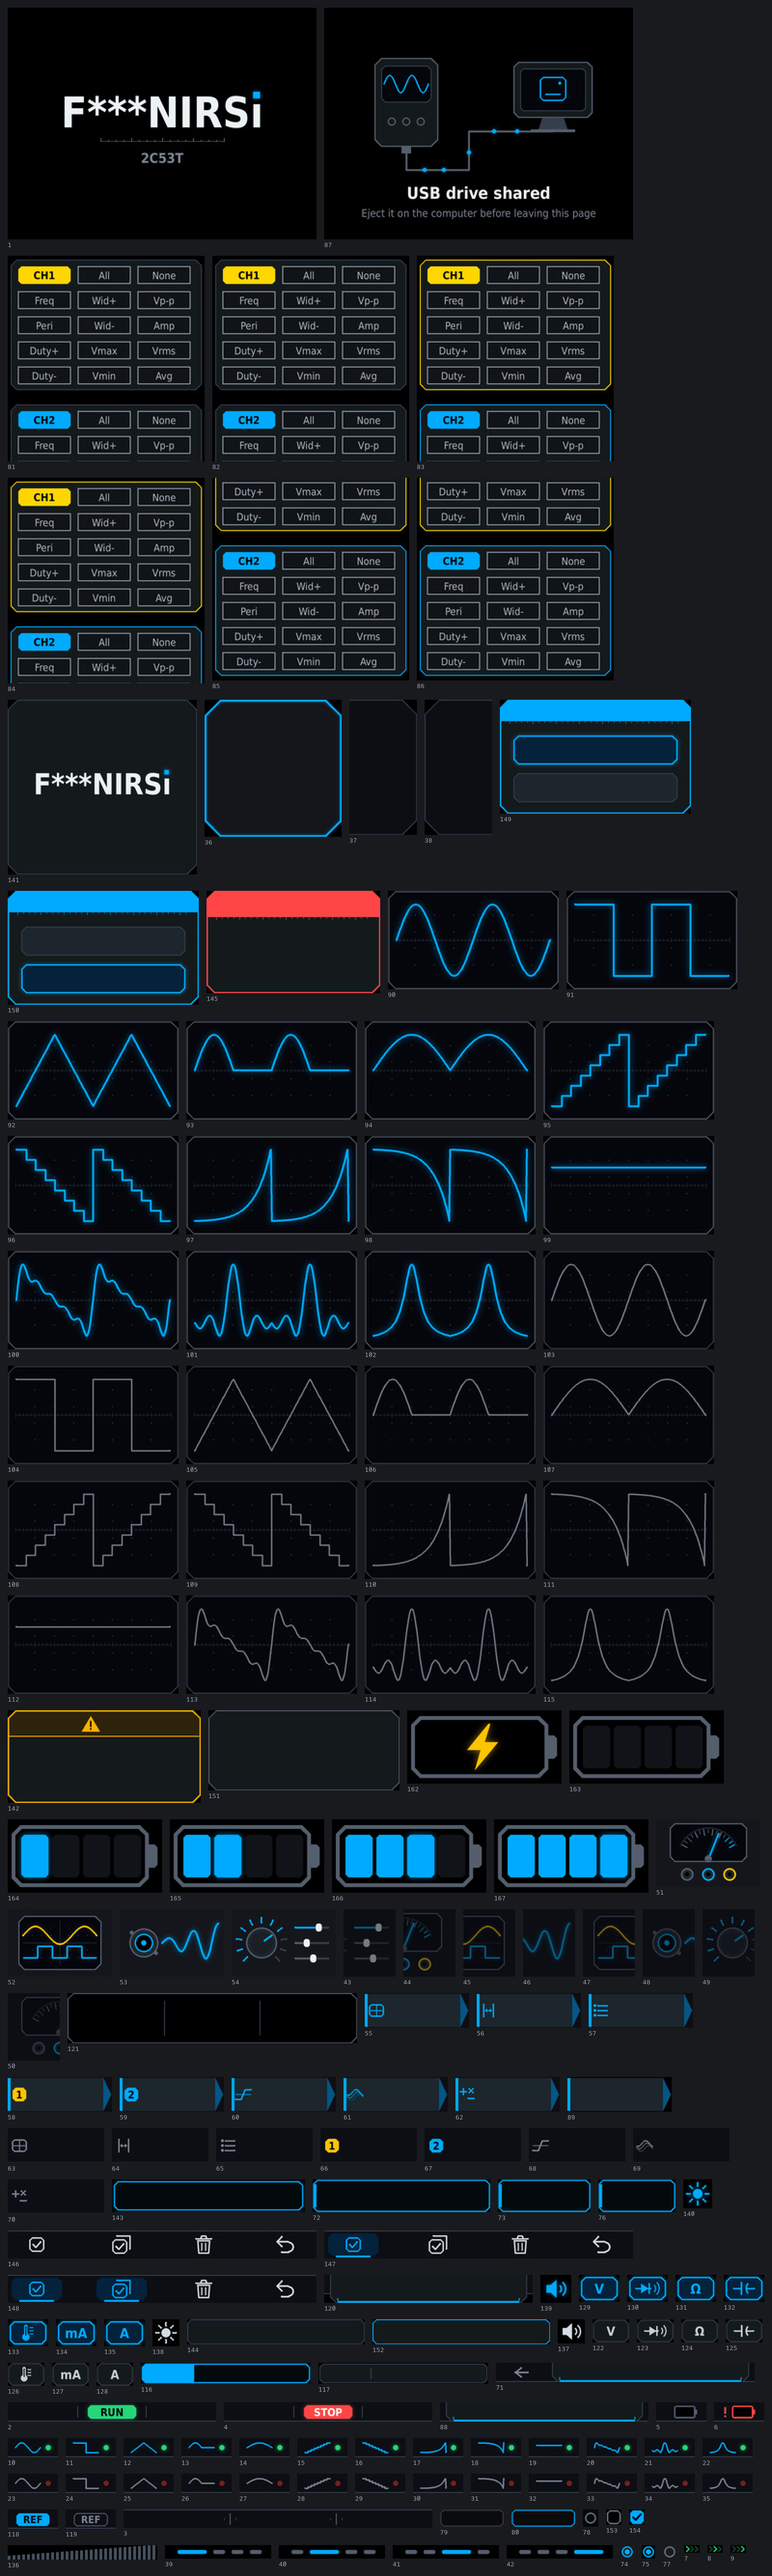
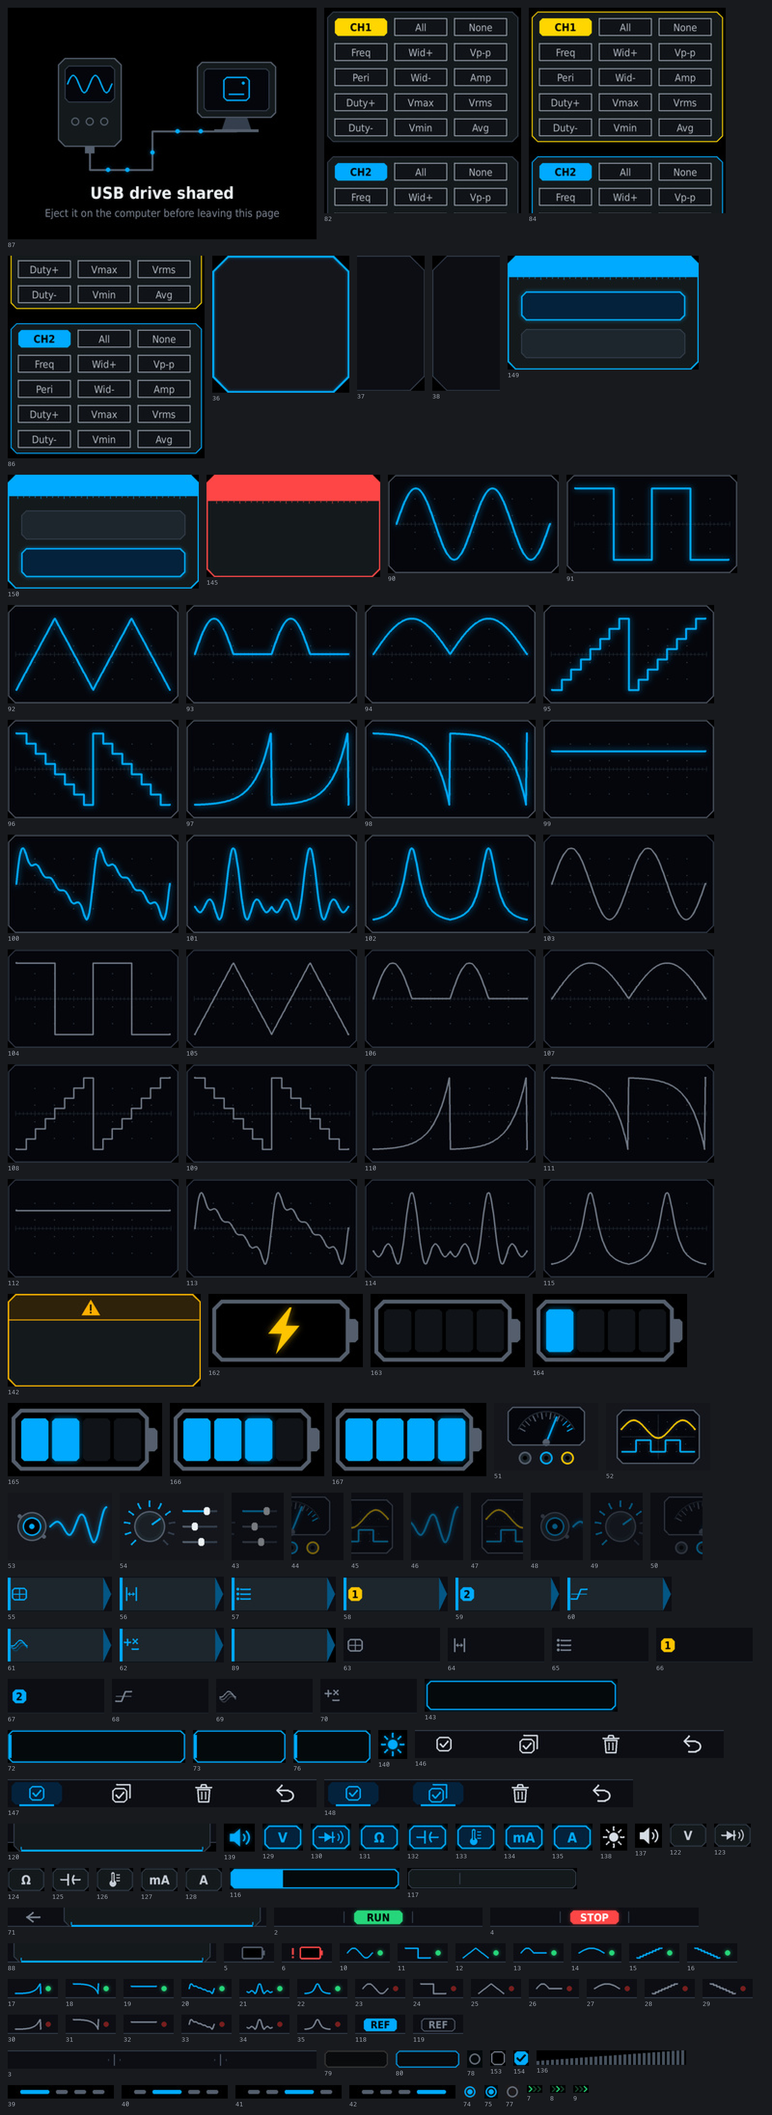
V1.4.9: only the pictures the firmware draws
- the nine pictures no code loads (1, 121, 141, 144, 151, 152 and the copies 81 / 83 / 85) are
  removed from assets/ui and from the meter; 151 remain
- FILE_WRITE and FILE_DELETE on 3: accept 3:/System file/ + a picture number 1..167 without a
  leading zero + .jpg, so a picture can be removed and put back; 9999.bin (it selects drive 2: as
  the USB drive at start-up) and everything else on 3: stay protected
- picture sheet regenerated

Changed region(s): [[0.0, 0.0, 1.0, 1.0], [0.5938, 0.9062, 0.625, 0.9375]]

diff --git a/PROTOCOL.md b/PROTOCOL.md
@@ -187,14 +187,16 @@ the physical keys are not part of the firmware; this table gives the function on
 |---|---|---|---|
 | 0x70 | FILE_LIST | first entry (u16), directory path (text, e.g. `2:/` or `3:/System file`) | next entry (u16, 0xFFFF = no more), then entries {size u32, attribute u8, name length u8, name} as many as fit |
 | 0x71 | FILE_READ | offset (u32), path (at most 95 characters) | file size (u32), then up to 500 bytes from the offset; the file stays open while the host reads it in order (same path, next offset) and is closed at its end or by any other command |
-| 0x72 | FILE_WRITE | offset (u32), total (u32), path (zero-terminated), data | - ; offset 0 creates or truncates the file (on `3:` it must already exist, else status 6); each further chunk continues at the bytes written so far; the file is closed when the total is reached; status 6 for a path that is neither on `2:` nor exactly `3:/System file/` + 1 to 3 digits + `.jpg` |
-| 0x73 | FILE_DELETE | path (at most 95 characters) | - (a file or an empty directory on `2:`; status 5 when it is still there afterwards, 6 for any other drive) |
+| 0x72 | FILE_WRITE | offset (u32), total (u32), path (zero-terminated), data | - ; offset 0 creates or truncates the file; each further chunk continues at the bytes written so far; the file is closed when the total is reached; status 6 for a path that is neither on `2:` nor exactly `3:/System file/` + a picture number 1..167 without leading zero + `.jpg` |
+| 0x73 | FILE_DELETE | path (at most 95 characters) | - (a file or an empty directory on `2:`, or a picture `3:/System file/NNN.jpg` named as for FILE_WRITE; status 5 when it is still there afterwards, 6 for any other path) |
 | 0x74 | DRIVE | on (u8) | - (shares the drive with the host: UI page 7 and the configuration with mass storage) |
 
 Paths: `2:/DIR/NAME.EXT`, long names allowed. Drive 3: holds the meter's own system files: FILE_LIST
-and FILE_READ may read all of it; FILE_WRITE may only replace the user-interface pictures that are there,
-`3:/System file/NNN.jpg` (baseline JPEG; what the meter's decoder accepts is in `src/image_20.s`);
-nothing on 3: can be deleted.
+and FILE_READ may read all of it; FILE_WRITE and FILE_DELETE may only write or delete the user-interface pictures
+`3:/System file/NNN.jpg` (NNN 1..167, no leading zero; baseline JPEG, what the meter's decoder accepts
+is in `src/image_20.s`). Nothing else on 3: can be written or deleted: `3:/System file/9999.bin` must
+stay, because at start-up its presence selects drive 2: as the USB drive (`filesystem_startup_setup`,
+src/filesystem_08.s); without it the computer would get drive 3:.
 
 While the drive is shared the host owns it: the meter writes nothing into it (its own writes to that
 drive are refused) and re-reads it from the flash when it gets it back. Eject the drive on the host

diff --git a/README.md b/README.md
@@ -24,7 +24,7 @@ fonts and texts; shown at twice the size.
 | ![Oscilloscope](docs/screenshots/3_scope.png) | ![Oscilloscope settings](docs/screenshots/4_scope_settings.png) |
 | ![Signal generator](docs/screenshots/5_generator.png) | ![System settings](docs/screenshots/6_settings.png) |
 
-All 160 user-interface pictures: [docs/screenshots/ui_pictures.png](docs/screenshots/ui_pictures.png).
+All 151 user-interface pictures: [docs/screenshots/ui_pictures.png](docs/screenshots/ui_pictures.png).
 
 ---
 
@@ -32,7 +32,7 @@ All 160 user-interface pictures: [docs/screenshots/ui_pictures.png](docs/screens
 
 ### Application
 
-- Runs on the meter as assembly firmware (About shows **V1.4.8**). It started as a byte-identical
+- Runs on the meter as assembly firmware (About shows **V1.4.9**). It started as a byte-identical
   port of the vendor application V1.2.0 and is now developed on its own.
 - **USB control channel** (`src/usb_ctl.s`, `src/usb_remote.s`): a serial port next to the drive,
   no menu setting needed: every function of the meter (multimeter, oscilloscope, generator,
@@ -169,7 +169,8 @@ ignores "._" files by their content.
 
 The menus, buttons and dialogs are JPEG pictures that the firmware loads from the meter's own drive
 `3:/System file/NNN.jpg`; the meter keeps them there, they are not part of the application image.
-`assets/ui/` holds our own set (160 pictures, the numbers and sizes the firmware draws). With
+`assets/ui/` holds our own set (151 pictures: the numbers and sizes the firmware draws; the vendor's 1, 81,
+83, 85, 121, 141, 144, 151 and 152 are never drawn and are not kept). With
 application 1.4.0 or later each one can be written over USB with FILE_WRITE to
 `3:/System file/NNN.jpg` and read back with FILE_READ to check it (`PROTOCOL.md` 4.10).
 
